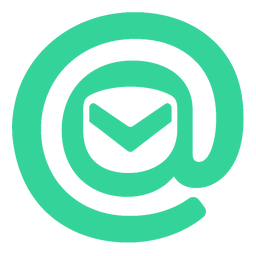
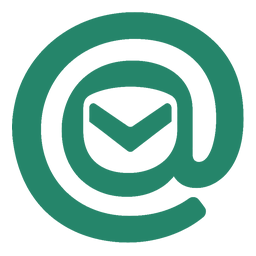
fix: soften mint theme brightness and improve button contrast

diff --git a/frontend/src/assets/base.css b/frontend/src/assets/base.css
@@ -1,19 +1,19 @@
 :root {
   color-scheme: light;
   --brand-50: #f3fbf8;
-  --brand-100: #def8ed;
-  --brand-200: #b6efd7;
-  --brand-400: #6ee7b7;
-  --brand-500: #34d399;
+  --brand-100: #e4f2ec;
+  --brand-200: #bde5d6;
+  --brand-400: #83c7b0;
+  --brand-500: #25856a;
   --brand-600: #23775e;
   --brand-700: #1b604b;
   --brand-800: #164c3e;
   --brand-accent: #38bdf8;
   --brand-link: #23775e;
-  --brand-soft: #def8ed;
-  --brand-button: #34d399;
-  --brand-button-hover: #44d7a1;
-  --brand-button-active: #26c58c;
+  --brand-soft: var(--brand-100);
+  --brand-button: var(--brand-500);
+  --brand-button-hover: #20765e;
+  --brand-button-active: #1b654f;
   --brand-button-text: #ffffff;
   --page-bg: #f3fbf8;
   --page-bg-accent: #effaf6;
@@ -37,12 +37,12 @@
   --radius-xl: 24px;
   --transition-fast: 160ms ease;
 
-  /* Text and solid controls use separate tokens so links remain legible. */
+  /* Opaque mint controls keep white text readable; interaction states deepen the color. */
   --el-color-primary: var(--brand-link);
-  --el-color-primary-light-3: #62ba9b;
-  --el-color-primary-light-5: #99dfc4;
-  --el-color-primary-light-7: #c4efdf;
-  --el-color-primary-light-8: #d5f4e7;
+  --el-color-primary-light-3: #60a58e;
+  --el-color-primary-light-5: #92c2b1;
+  --el-color-primary-light-7: #c1ddd2;
+  --el-color-primary-light-8: #d3e7df;
   --el-color-primary-light-9: var(--brand-soft);
   --el-color-primary-dark-2: #1b604b;
   --el-border-radius-base: 10px;
@@ -58,7 +58,7 @@
 
 html.dark {
   color-scheme: dark;
-  --brand-link: #6ee7b7;
+  --brand-link: var(--brand-400);
   --brand-soft: #183c30;
   --page-bg: #101b18;
   --page-bg-accent: #13241e;
@@ -70,20 +70,20 @@ html.dark {
   --text-tertiary: #96b2a2;
   --border: #30473a;
   --border-strong: #496553;
-  --focus: #6ee7b7;
-  --success: #6ee7b7;
+  --focus: var(--brand-400);
+  --success: var(--brand-400);
   --warning: #fbbf24;
   --danger: #f87171;
   --shadow-sm: 0 1px 2px rgba(0, 0, 0, 0.18), 0 8px 22px rgba(0, 0, 0, 0.12);
   --shadow-md: 0 22px 55px rgba(0, 0, 0, 0.28);
 
   --el-color-primary: var(--brand-link);
-  --el-color-primary-light-3: #8aecc8;
-  --el-color-primary-light-5: #a9f1d8;
+  --el-color-primary-light-3: #9ad3bf;
+  --el-color-primary-light-5: #b4dfd0;
   --el-color-primary-light-7: #305a46;
   --el-color-primary-light-8: #234a39;
   --el-color-primary-light-9: var(--brand-soft);
-  --el-color-primary-dark-2: #96edcc;
+  --el-color-primary-dark-2: #9ad3bf;
   --el-bg-color: var(--surface);
   --el-bg-color-page: var(--page-bg);
   --el-bg-color-overlay: #20342a;
@@ -162,7 +162,7 @@ a {
 
 ::selection {
   color: #123b32;
-  background: #b6efd7;
+  background: var(--brand-200);
 }
 
 ::-webkit-scrollbar {

diff --git a/frontend/src/assets/main.css b/frontend/src/assets/main.css
@@ -241,7 +241,7 @@ svg {
   overflow-y: auto;
   padding: clamp(24px, 5vw, 72px) 20px;
   background:
-    radial-gradient(circle at 8% 12%, rgba(52, 211, 153, 0.08), transparent 28rem),
+    radial-gradient(circle at 8% 12%, color-mix(in srgb, var(--brand-500) 8%, transparent), transparent 28rem),
     radial-gradient(circle at 92% 88%, rgba(56, 189, 248, 0.06), transparent 26rem),
     linear-gradient(145deg, var(--page-bg-accent), var(--page-bg) 48%, var(--page-bg));
 }
@@ -251,8 +251,8 @@ svg {
   inset: 0;
   pointer-events: none;
   background-image:
-    linear-gradient(rgba(52, 211, 153, 0.035) 1px, transparent 1px),
-    linear-gradient(90deg, rgba(52, 211, 153, 0.035) 1px, transparent 1px);
+    linear-gradient(color-mix(in srgb, var(--brand-500) 3.5%, transparent) 1px, transparent 1px),
+    linear-gradient(90deg, color-mix(in srgb, var(--brand-500) 3.5%, transparent) 1px, transparent 1px);
   background-size: 32px 32px;
   content: '';
   mask-image: linear-gradient(to bottom, black, transparent 82%);
@@ -570,7 +570,7 @@ svg {
 .dark .settings-notice {
   color: var(--brand-link);
   border-color: var(--border-strong);
-  background: rgba(52, 211, 153, 0.1);
+  background: color-mix(in srgb, var(--brand-400) 10%, transparent);
 }
 
 .settings-notice > svg {
@@ -618,7 +618,7 @@ svg {
 
 .dark .settings-section-icon {
   color: var(--brand-400);
-  background: rgba(52, 211, 153, 0.14);
+  background: color-mix(in srgb, var(--brand-400) 14%, transparent);
 }
 
 .settings-section h3,
@@ -777,7 +777,7 @@ svg {
 .dark .metric-icon,
 .dark .metric-card[data-tone] .metric-icon {
   color: var(--brand-400);
-  background: rgba(52, 211, 153, 0.14);
+  background: color-mix(in srgb, var(--brand-400) 14%, transparent);
 }
 
 .metric-card p {

diff --git a/frontend/src/views/email/PublicInboxView.vue b/frontend/src/views/email/PublicInboxView.vue
@@ -442,7 +442,7 @@ watch(
 .public-email-input :deep(.el-input__wrapper:hover),
 .public-email-input :deep(.el-input__wrapper.is-focus) {
   border-color: var(--focus);
-  box-shadow: 0 14px 36px rgba(52, 211, 153, 0.16);
+  box-shadow: 0 14px 36px color-mix(in srgb, var(--brand-500) 16%, transparent);
 }
 
 .public-email-input :deep(.el-input__inner) {
@@ -457,7 +457,7 @@ watch(
   border-radius: 8px;
   font-size: 16px;
   font-weight: 700;
-  box-shadow: 0 10px 24px rgba(52, 211, 153, 0.25);
+  box-shadow: 0 10px 24px color-mix(in srgb, var(--brand-500) 16%, transparent);
 }
 
 .dark .public-email-input :deep(.el-input__wrapper) {
@@ -469,7 +469,7 @@ watch(
 .dark .public-email-input :deep(.el-input__wrapper:hover),
 .dark .public-email-input :deep(.el-input__wrapper.is-focus) {
   border-color: var(--focus);
-  box-shadow: 0 12px 30px rgba(52, 211, 153, 0.18);
+  box-shadow: 0 12px 30px color-mix(in srgb, var(--brand-400) 14%, transparent);
 }
 
 .dark .public-email-input :deep(.el-input__inner) {

diff --git a/frontend/src/components/email/RedeemCodeDialog.vue b/frontend/src/components/email/RedeemCodeDialog.vue
@@ -258,12 +258,12 @@ const handleTurnstileError = (error: string) => {
 
 .redeem-input :deep(.el-input__wrapper:hover) {
   border-color: var(--focus);
-  box-shadow: 0 0 0 3px rgba(52, 211, 153, 0.1);
+  box-shadow: 0 0 0 3px color-mix(in srgb, var(--focus) 10%, transparent);
 }
 
 .redeem-input :deep(.el-input__wrapper.is-focus) {
   border-color: var(--focus);
-  box-shadow: 0 0 0 3px rgba(52, 211, 153, 0.2);
+  box-shadow: 0 0 0 3px color-mix(in srgb, var(--focus) 20%, transparent);
 }
 
 .redeem-button {

diff --git a/frontend/uno.config.ts b/frontend/uno.config.ts
@@ -14,11 +14,11 @@ export default defineConfig({
       // 自定义颜色变量，支持明暗模式
       primary: {
         50: '#f3fbf8',
-        100: '#def8ed',
-        200: '#b6efd7',
-        300: '#96e8c7',
-        400: '#6ee7b7',
-        500: '#34d399',
+        100: '#e4f2ec',
+        200: '#bde5d6',
+        300: '#9dd8c2',
+        400: '#83c7b0',
+        500: '#25856a',
         600: '#23775e',
         700: '#1b604b',
         800: '#164c3e',
